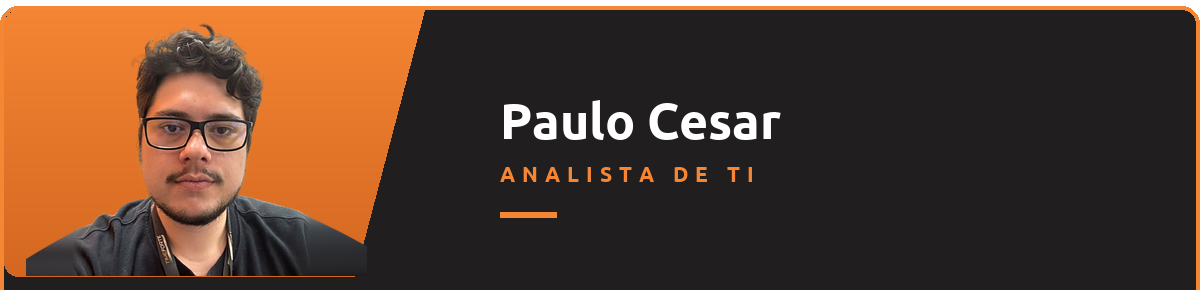
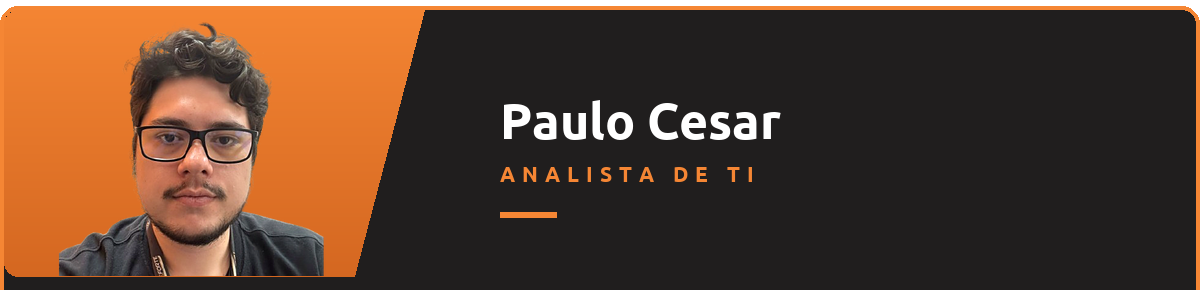
Paulo: tira o casaco estendido, volta ao crop natural
A extensao do casaco para abrir o enquadramento ficou artificial. Fica a
foto como veio (so a correcao da iris e o ajuste leve de luz), com crop
mais fechado.

Changed region(s): [[0.0, 0.0621, 0.3083, 0.9621]]

diff --git a/ferramentas/pessoas.py b/ferramentas/pessoas.py
@@ -131,11 +131,11 @@ PESSOAS = {
         "foto": "paulo-cesar-limpo.png",
         # selfie (recorte fornecido já sem fundo, 433x577) com retoque leve:
         # íris azulada pelo reflexo da lente voltou ao castanho, contraste e
-        # nitidez suaves. Por ser de perto, a cabeça saía maior que a dos
-        # outros cards; o casaco foi estendido 150px para cada lado seguindo a
-        # inclinação dos ombros (733x577), o que permite este crop mais aberto
-        # com a cabeça em ~76% da altura, como nos demais.
-        "crop": (67, 51, 683, 531),
+        # nitidez suaves. Por ser de perto, a cabeça sai um pouco maior que a
+        # dos outros cards. NÃO estenda o casaco para abrir o crop: foi
+        # testado e reprovado ("horrível"). O crop estoura ~54px nas laterais
+        # (viram laranja do painel), como nos outros.
+        "crop": (-54, 55, 504, 490),
         "espelhar": False,
     },
 }
